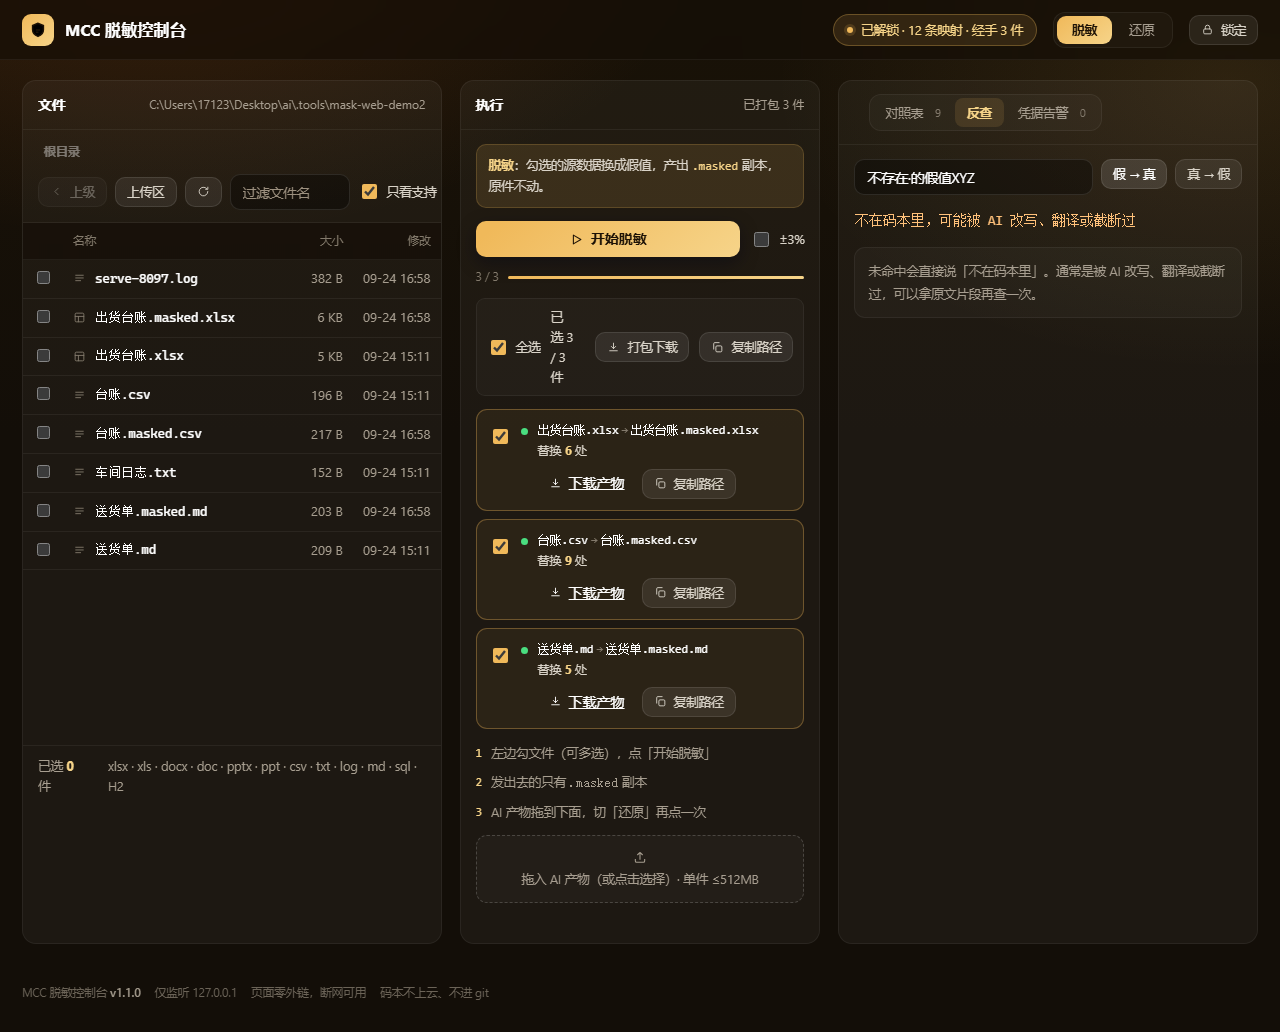
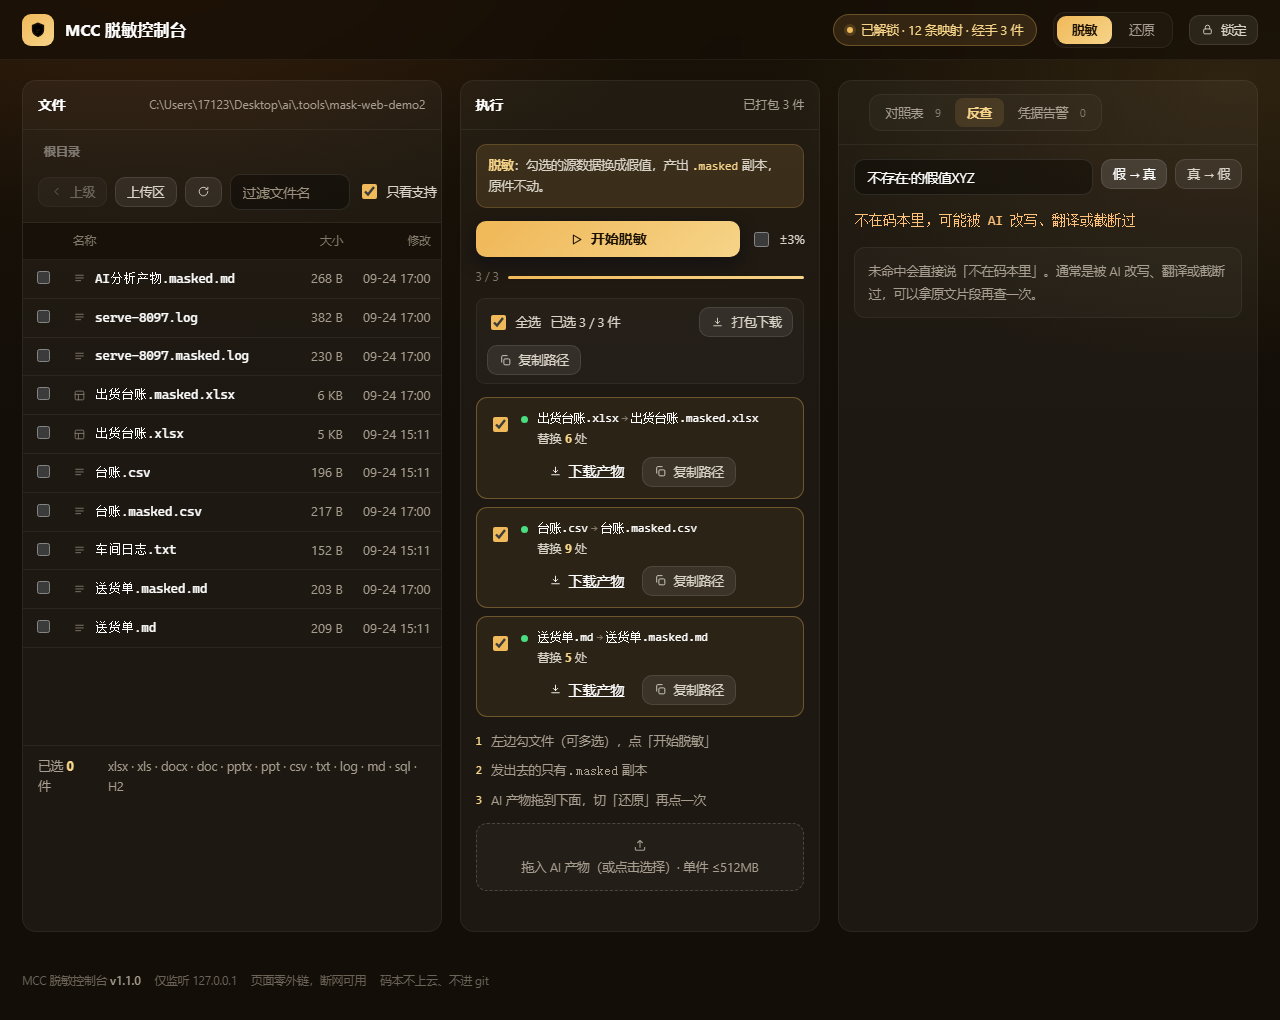
ui: 结果卡批量条窄栏换行修正（全选/已选/按钮 nowrap + 允许换行）

diff --git a/src/main/resources/web/index.html b/src/main/resources/web/index.html
@@ -168,10 +168,12 @@ tr.dir:hover .txt{text-decoration:underline;text-underline-offset:3px}
 .res.pick{border-color:rgba(240,185,90,.34);background:rgba(240,185,90,.07)}
 .rsel{display:flex;align-items:flex-start;padding-top:5px}
 .rsel input{width:15px;height:15px;accent-color:var(--gold);cursor:pointer}
-.resbar{display:flex;align-items:center;gap:10px;margin-top:12px;padding:8px 10px;border-radius:9px;
+.resbar{display:flex;align-items:center;flex-wrap:wrap;gap:8px 10px;margin-top:12px;padding:8px 10px;border-radius:9px;
   background:var(--panel-2);border:1px solid var(--line-2);font-size:12.5px;color:var(--t3)}
-.resbar .meta{color:var(--t2)}
-.resbar .grow{flex:1}
+.resbar .meta{color:var(--t2);white-space:nowrap}
+.resbar .check{white-space:nowrap}
+.resbar button{flex:none}
+.resbar .grow{flex:1;min-width:0}
 .res.bad{background:rgba(255,92,120,.07);border-color:rgba(255,92,120,.24)}
 .res .dot{width:7px;height:7px;border-radius:50%;background:var(--ok);margin-top:7px}
 .res.bad .dot{background:var(--red)}
